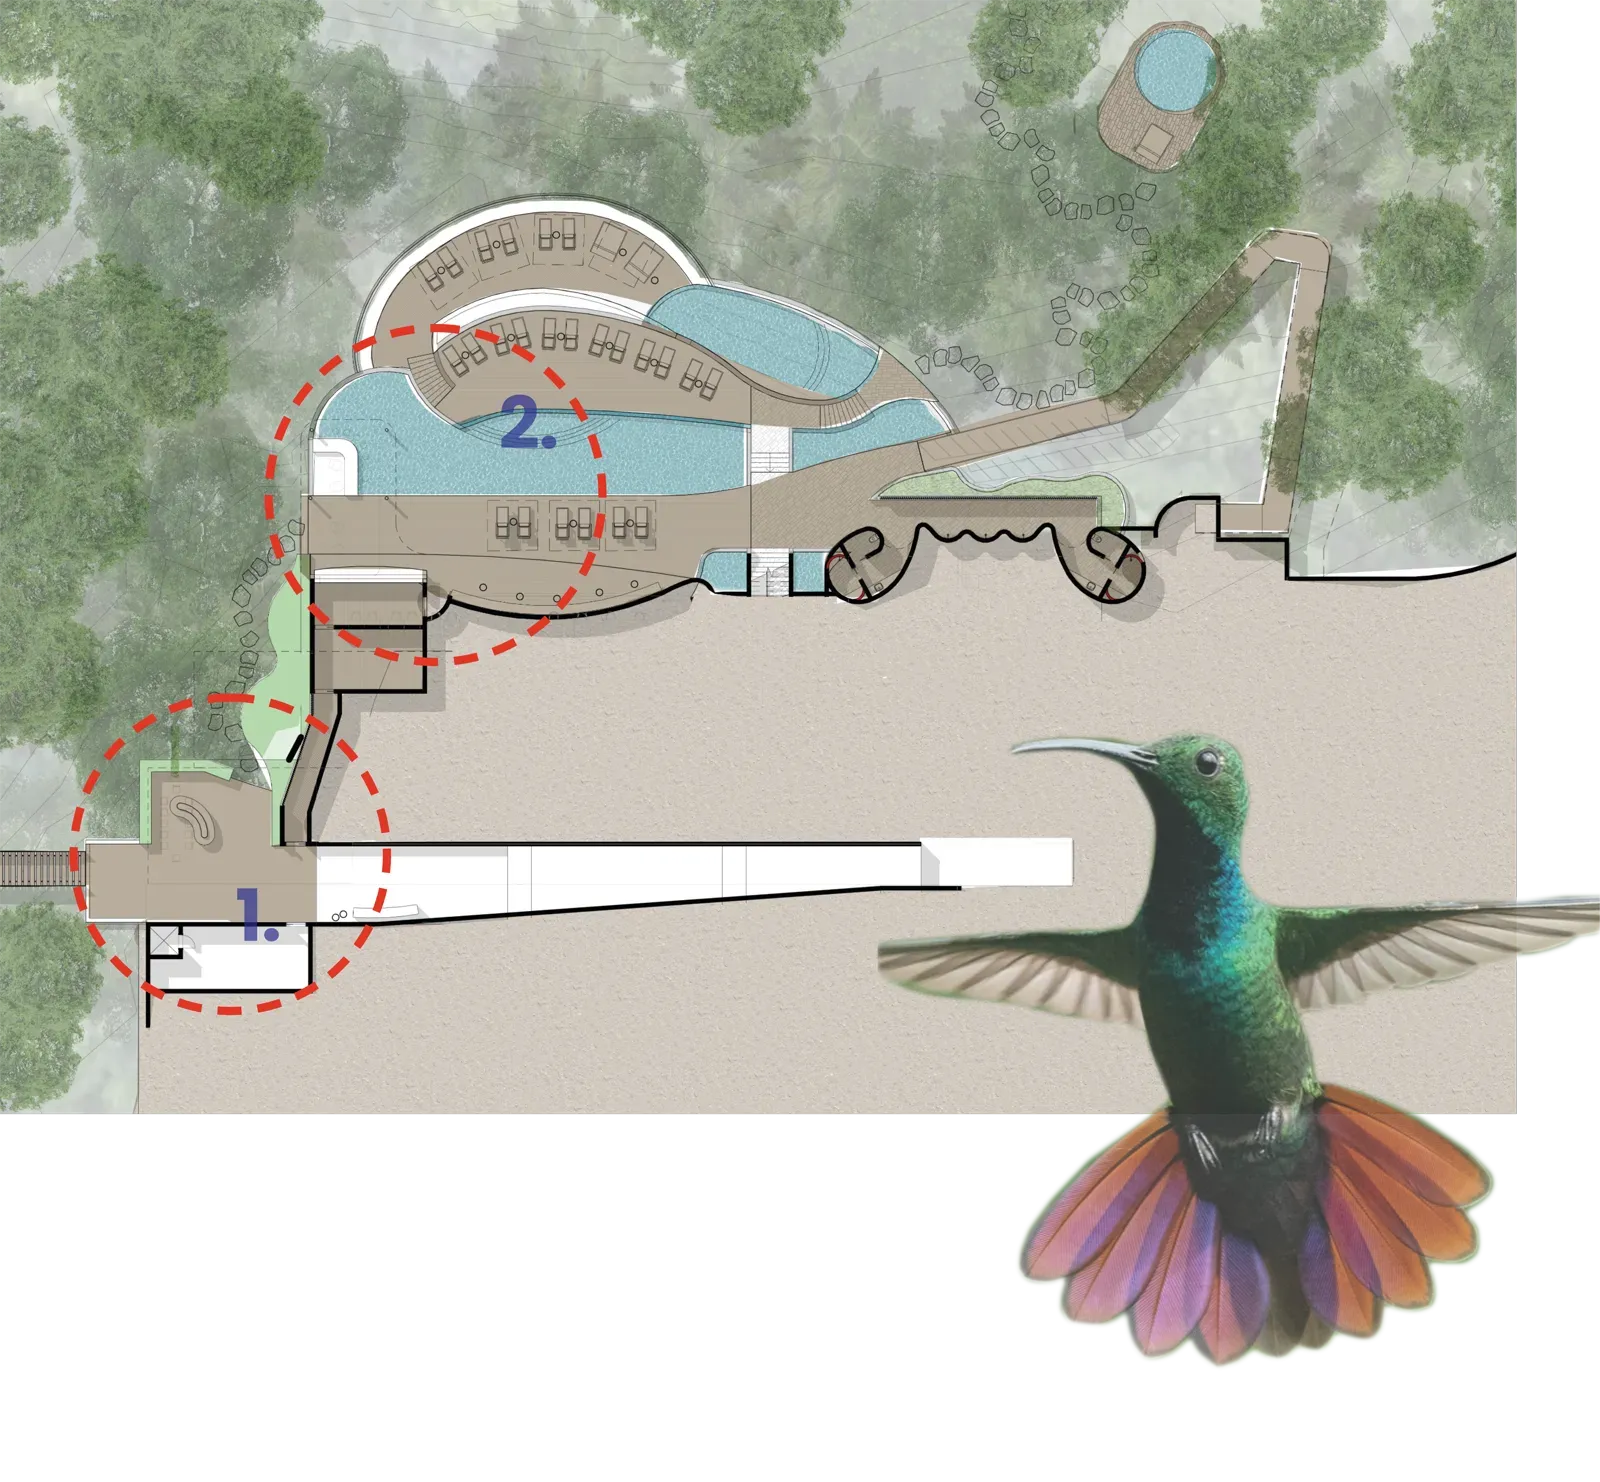
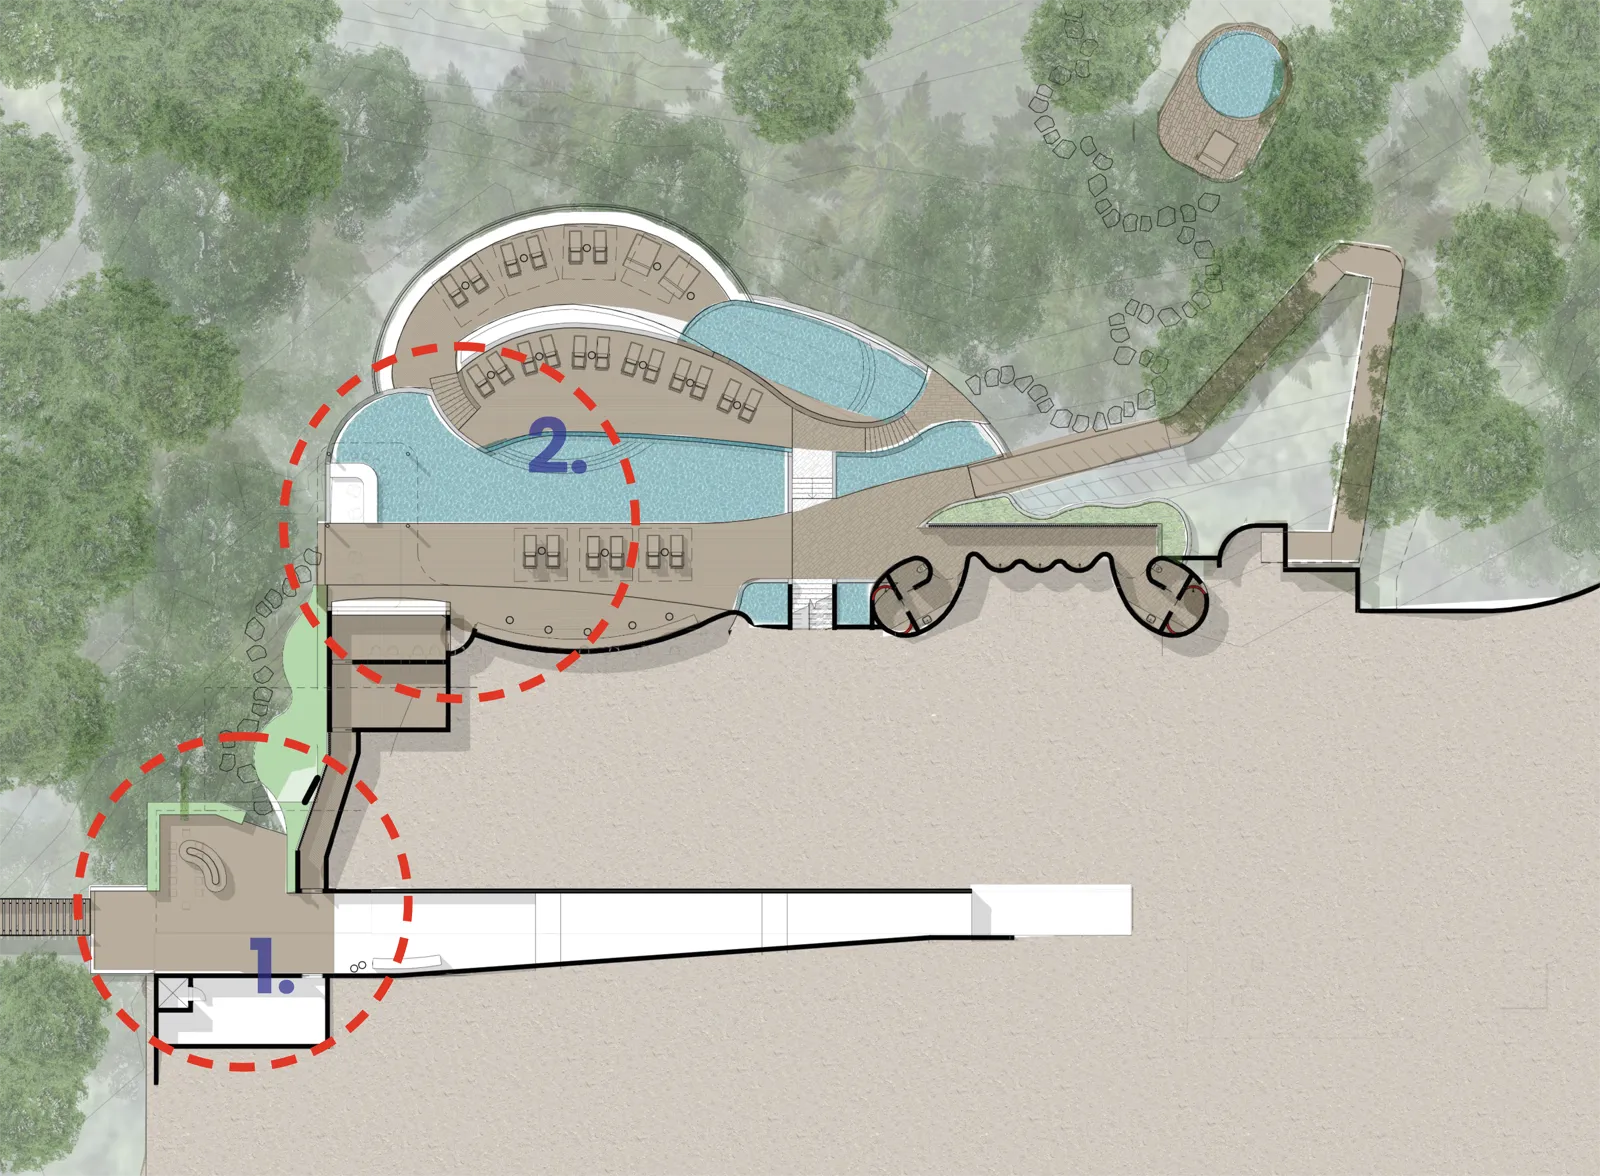
Add updated floor plan images to Jungle Resort modal
- Re-compress updated 1.png and 2.png floor plans
- Display both floor plans side by side below renders

diff --git a/src/components/ProjectModal.jsx b/src/components/ProjectModal.jsx
@@ -169,6 +169,10 @@ export default function ProjectModal({ project, onClose }) {
                 <Img src="/projects/jungle-resort/resort-1.webp" alt="Resort main area" className="w-full h-auto rounded-sm" />
               </div>
               <p className="text-[10px] font-light text-stone/35 italic mb-4">(renders were produced by an internal employee. My contribution was towards the interior design of each of these buildings).</p>
+              <div className="grid grid-cols-2 gap-2">
+                <Img src="/projects/jungle-resort/floorplan.webp" alt="Resort floor plan" className="w-full h-auto rounded-sm" />
+                <Img src="/projects/jungle-resort/floorplan-2.webp" alt="Resort floor plan 2" className="w-full h-auto rounded-sm" />
+              </div>
             </div>
           )}
 